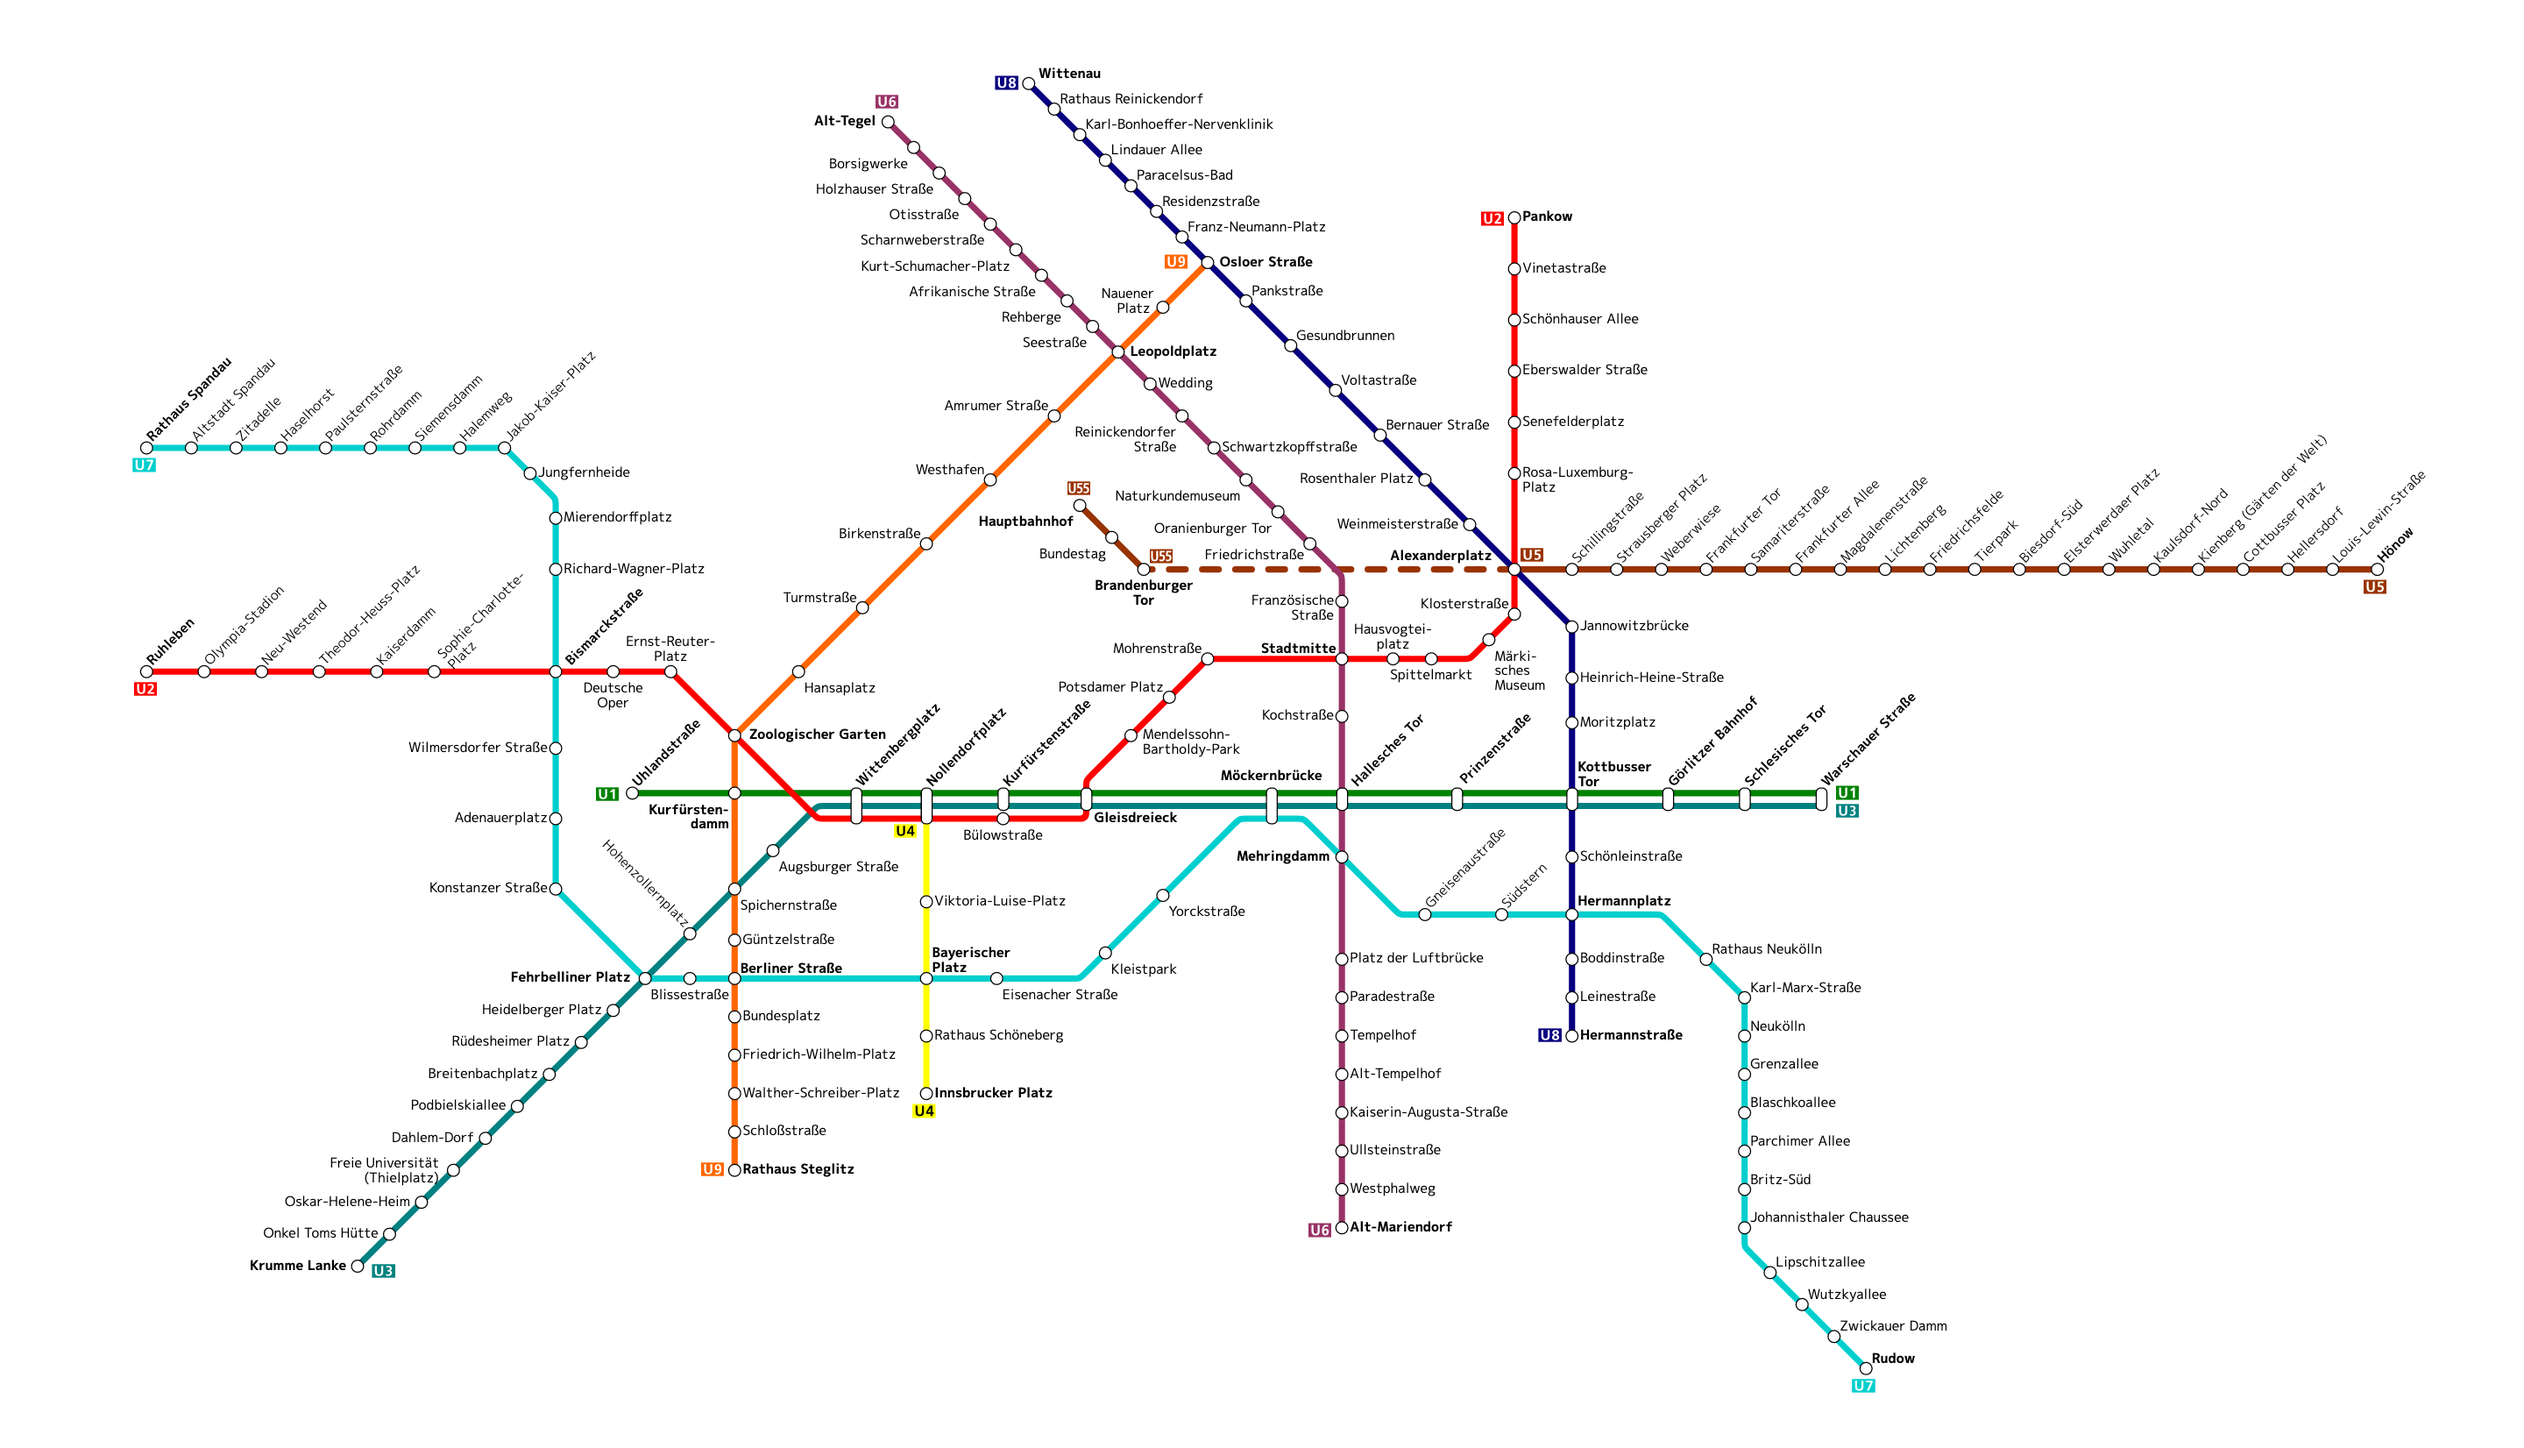
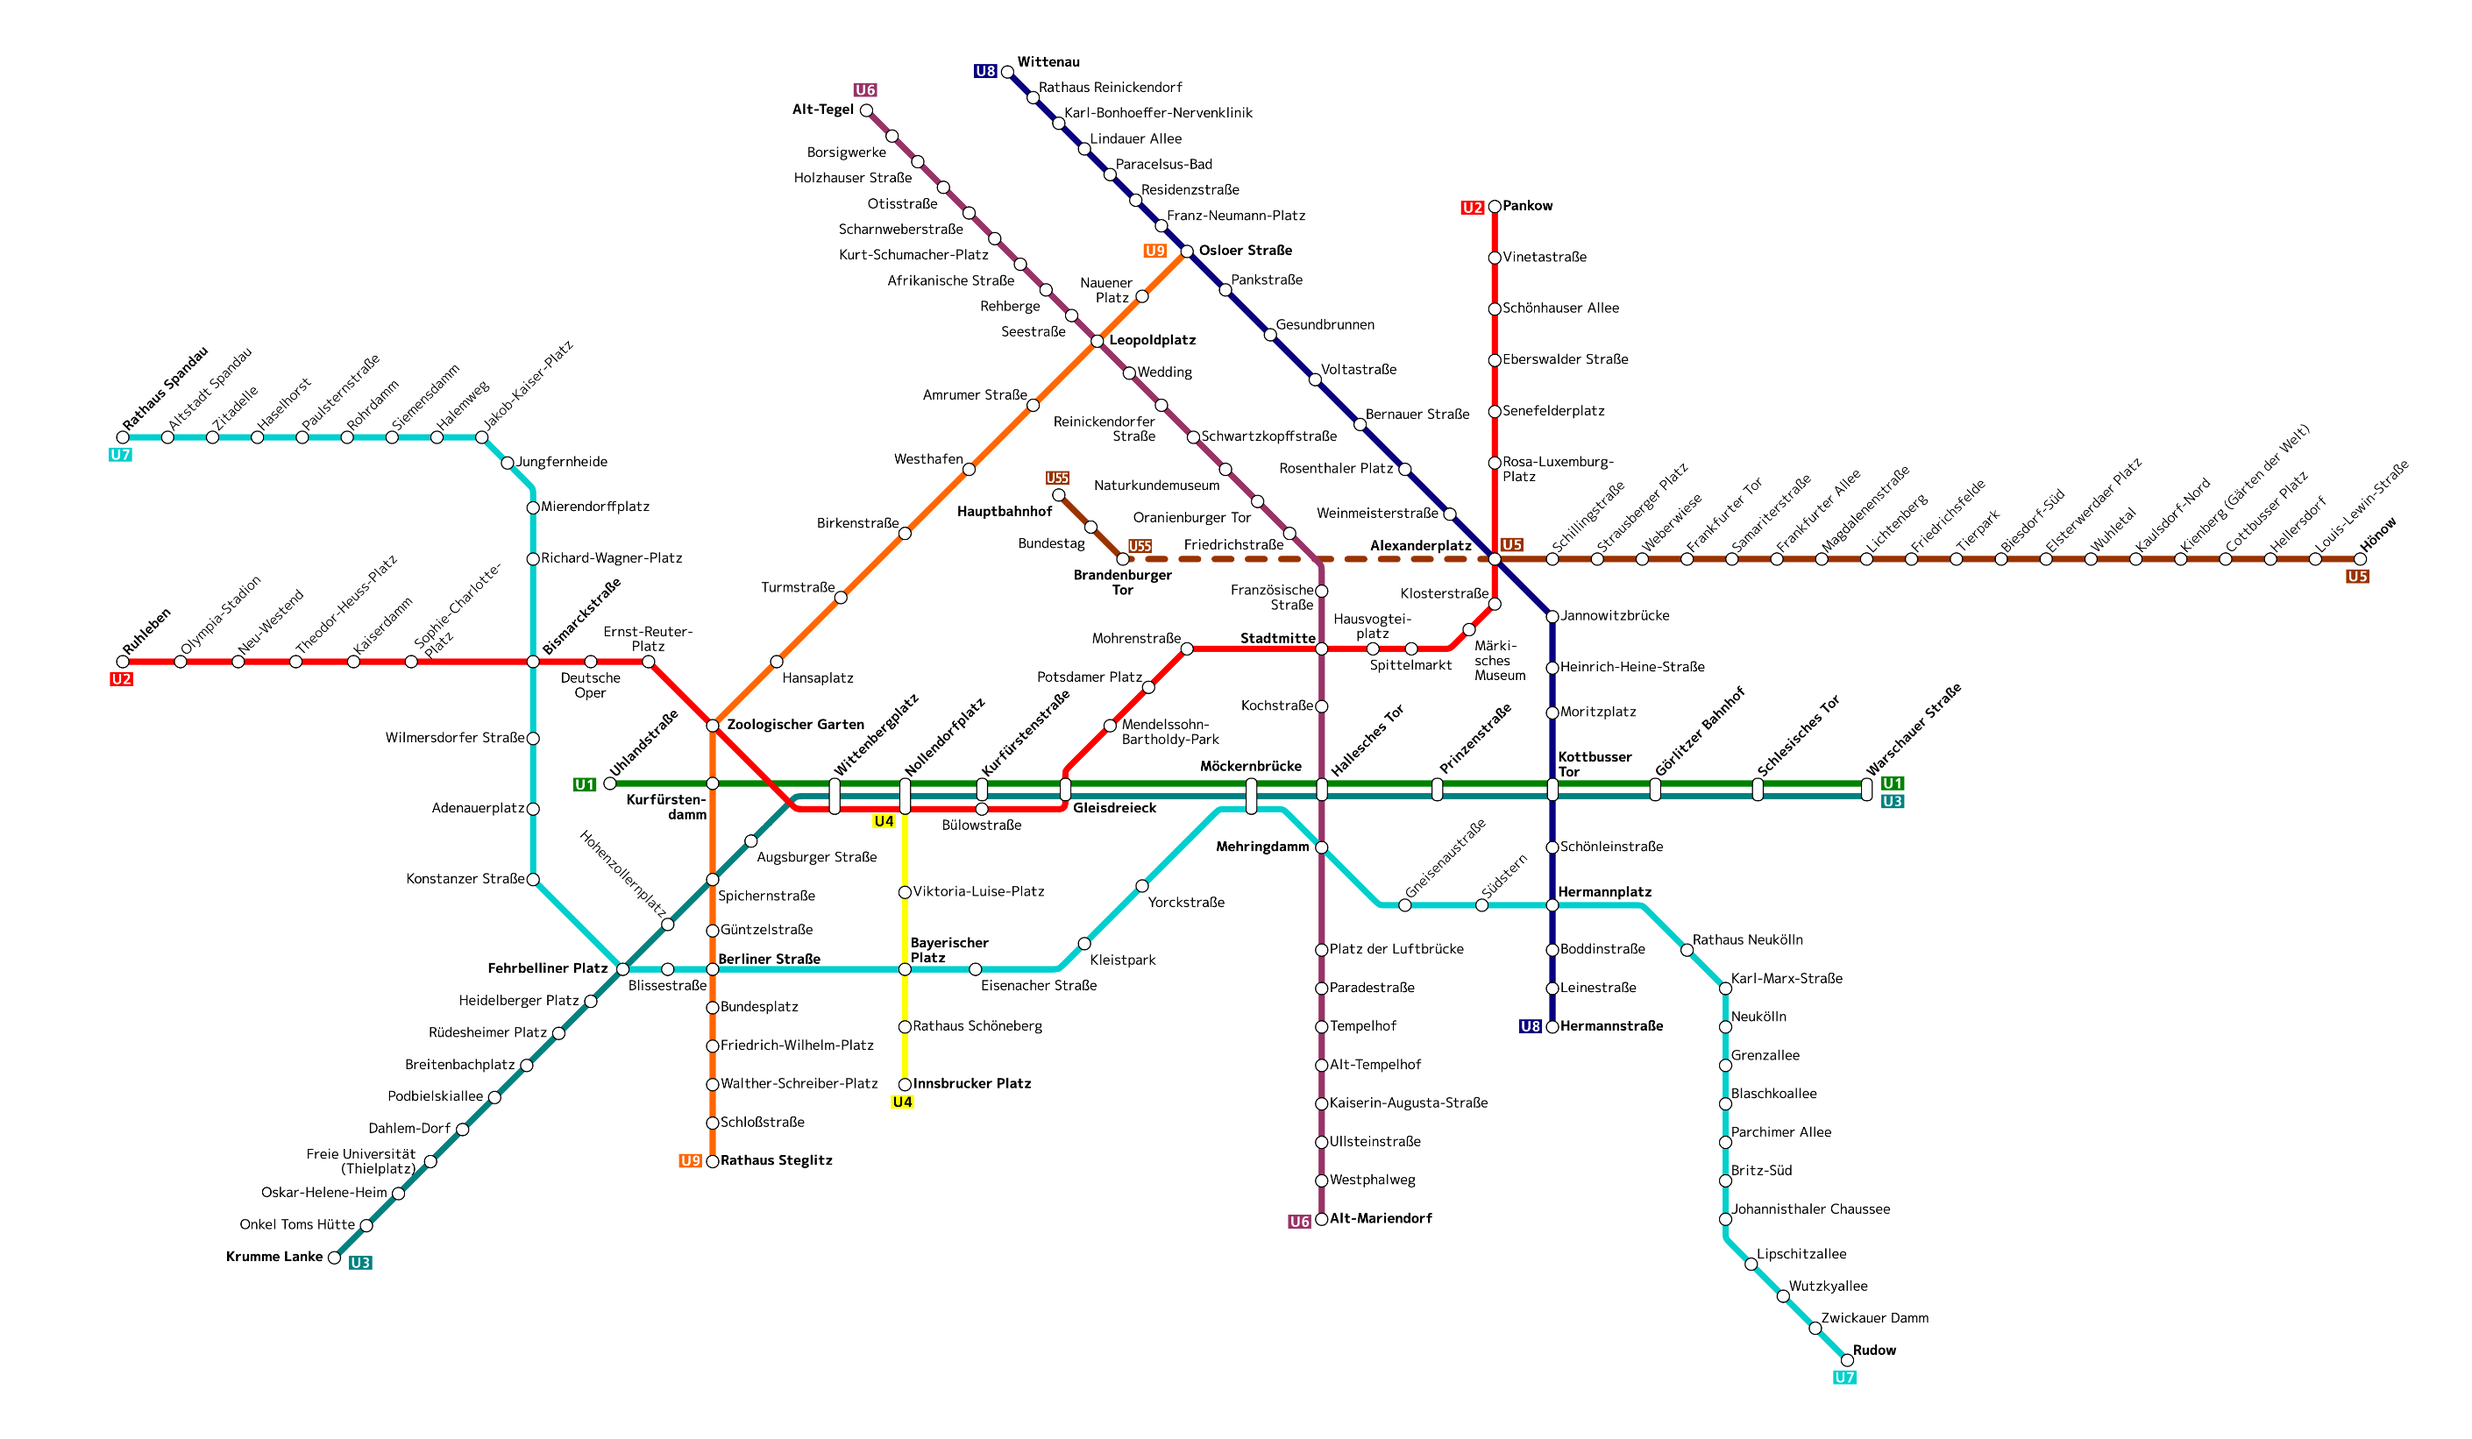
add wall of Berlin (optional)

Changed region(s): [[0.0312, 0.0311, 0.9674, 0.9629], [0.4681, 0.6212, 0.4993, 0.6523]]

diff --git a/js/d3-tube-map.js b/js/d3-tube-map.js
@@ -449,10 +449,6 @@ var HIGHLIGHT = true;
           .style('height', '100%');
 
         gMap = svg.append('g');
-
-        if (_data.river !== undefined) {
-          drawRiver();
-        }
       });
     }
 
@@ -481,9 +477,12 @@ var HIGHLIGHT = true;
       }
     }
 
-    map.drawAll = function() {
+    map.drawAll = function(options) {
       drawLines();
       drawLineLabels();
+      if (options && options['show-wall'] === 'true') {
+        drawWall()
+      }
       drawStations();
       drawLongStations();
       drawLabels();
@@ -494,20 +493,65 @@ var HIGHLIGHT = true;
       return value === listeners ? map : value;
     };
 
-    function drawRiver() {
+    function drawWall() {
+      drawWallLabel()
       gMap
         .append('g')
-        .attr('class', 'river')
+        .attr('class', 'wall')
         .selectAll('path')
-        .data([_data.river])
+        .data([_data.wall])
         .enter()
         .append('path')
         .attr('d', function(d) {
           return line(d, xScale, yScale, lineWidth, lineWidthTickRatio);
         })
-        .attr('stroke', '#CCECF4')
+        .attr('stroke', 'grey')
+        .style('opacity', '0.4')
         .attr('fill', 'none')
-        .attr('stroke-width', 1.8 * lineWidth);
+        .attr('stroke-width', 0.4 * lineWidth);
+    }
+
+    function drawWallLabel() {
+      gMap
+        .append('g')
+        .selectAll('text')
+        .data(
+          [
+            {
+              "label": "Wall of Berlin",
+              "x": 206,
+              "y": -98,
+              "name": "Wall of Berlin",
+              "labelPos": "NE",
+              "labelAngle": 45,
+              "labelShiftX": 0,
+              "labelShiftY": 0
+            }
+          ]
+        )
+        .enter()
+        .append('g')
+        .classed('wall', true)
+        .append('text')
+        .text('Wall of Berlin (1961 - 1989)')
+        .attr('fill', 'grey')
+        .style('font-size', 3 * lineWidth + 'px')
+        .attr('dy', 0)
+        .attr('x', function(d) {
+          return xScale(d.x + d.labelShiftX) + textPos(d).pos[0];
+        })
+        .attr('y', function(d) {
+          return yScale(d.y + d.labelShiftY) - textPos(d).pos[1];
+        })
+        .attr('text-anchor', function(d) {
+          return textPos(d).textAnchor;
+        })
+        .attr('transform', function(d) {
+          var _x = xScale(d.x + d.labelShiftX) + textPos(d).pos[0];
+          var _y = yScale(d.y + d.labelShiftY) - textPos(d).pos[1];
+          return "rotate(" + d.labelAngle + "," + _x + "," + _y + ")"
+        })
+        .style('-webkit-user-select', 'none')
     }
 
     function drawLines() {
@@ -727,7 +771,7 @@ var HIGHLIGHT = true;
     function transformData(data) {
       return {
         raw: data.lines,
-        river: data.river,
+        wall: data.wall,
         stations: extractStations(data),
         lines: extractLines(data.lines),
       };

diff --git a/info.html b/info.html
@@ -7,12 +7,27 @@
     <meta charset="utf-8"/>
     <meta name="description" content="About page of https://ubahn-map.com">
 
-    <title>About</title>
+    <title>Info</title>
   </head>
 
   <body id="about-page">
     <div id="about-page-container">
-      <a class="fake-link" href="#" onclick="window.history.back()">back</a>
+      <a href="index.html">back</a>
+
+      <h2>Settings</h2>
+
+      <div class="checkbox">
+        <input type="checkbox" id="show-wall">
+        <label for="show-wall">Show The Berlin Wall</label>
+      </div>
+
+      <div class="checkbox">
+        <input type="checkbox" id="grayscale-photos">
+        <label for="grayscale-photos">Grayscale Images</label>
+      </div>
+
+      <hr />
+
       <h2>About</h2>
       <h3>the project</h3>
       <p>
@@ -26,12 +41,12 @@
 
       <p>
         The map is draggable by dragging and scalable by zooming. Clicking on a
-        station label brings up an image and information about the station. The
-        information is taken from the English or German
+        station or its label brings up an image and information about the
+        station. The information is taken from the English or German
         <a href="https://en.wikipedia.org/wiki/Wikipedia">Wikipedia</a>
         page. At the bottom of each article there is a link to the source.
-        Since some of the pages are cached, the information might not be in
-        sync with the corresponding Wikipedia article.
+        Since the pages are cached, the information might not be in sync with
+        the corresponding Wikipedia article.
       </p>
 
       <p>
@@ -104,15 +119,29 @@
       <div id=footer-center><a href="index.html">Berlin U-Bahn Map</a></div>
       <div id=footer-right>
         <span>|&nbsp;</span>
-        <a href="about.html">about</a>
+        <a href="info.html">info</a>
       </div>
     </div>
 
     <script src="js/vendor/jquery.min.js"></script>
+    <script src="js/vendor/js.cookie-2.2.1.min.js"></script>
     <script>
+      function getCheckBoxSetting(e) {
+        return Cookies.get(e.attr('id')) === "true" ? true : false
+      }
+      $('input[type=checkbox]').each(function() {
+        $(this).prop('checked', getCheckBoxSetting($(this)))
+      })
+
       $(document).ready(function() {
-        $('.fake-link').click(function(event){
-          event.preventDefault();
+
+        $('input[type="checkbox"]').click( function() {
+          if($(this).is(':checked')){
+            Cookies.set($(this).attr('id'), true, { expires: 30 })
+          }
+          else if($(this).is(':not(:checked)')){
+            Cookies.set($(this).attr('id'), false, { expires: 30 })
+          }
         });
       });
     </script>

diff --git a/css/style.css b/css/style.css
@@ -14,8 +14,7 @@
   font-weight: 700;
 }
 @font-face {
-  font-family: "M+ 2p";
-  src: url("../fonts/mplus-2p-heavy.ttf");
+  font-family: "M+ 2p"; src: url("../fonts/mplus-2p-heavy.ttf");
   font-weight: 800;
 }
 
@@ -62,9 +61,10 @@ body {
   margin: 0;
   padding: 0;
   font-family: "Helvetica Neue", "Helvetica", "Roboto", sans-serif;
+  -webkit-text-size-adjust: 100%;
 }
 
-text {
+.label {
   font-family: 'M+ 2p', sans-serif;
   font-size: 14px;
   cursor: pointer;
@@ -136,10 +136,6 @@ tspan {
 
 img {
   max-width: 100%;
-  /*
-  -webkit-filter: grayscale(100%);
-  filter: grayscale(100%);
-  */
 }
 
 a:link, a:visited,
@@ -202,7 +198,7 @@ a:hover, a:active {
 
 .header a,
 .footer a {
- text-decoration: none;
+  text-decoration: none;
 }
 
 .header a:hover,
@@ -231,7 +227,7 @@ a:hover, a:active {
 
 #about-page-container {
   margin: 0 auto;
-  max-width: 860px;
+  max-width: 820px;
   padding: 30px;
   text-align: justify;
   font-size: 15px;
@@ -244,4 +240,64 @@ a:hover, a:active {
 
 #about-page {
   background-color: #f3f3f3;
+}
+
+hr {
+  border: 0;
+  height: 0;
+  border-top: 1px solid rgba(0, 0, 0, 0.1);
+  border-bottom: 1px solid rgba(255, 255, 255, 0.3);
+}
+
+.checkbox {
+  padding-bottom: 5px;
+}
+.checkbox input[type="checkbox"] {
+  opacity: 0;
+  position: absolute;
+}
+.checkbox label {
+  position: relative;
+  display: inline-block;
+  padding-left: 22px;
+  line-height: 22px;
+}
+.checkbox label::before,
+.checkbox label::after {
+  position: absolute;
+  content: "";
+  display: inline-block;
+}
+.checkbox label::before{
+  height: 16px;
+  width: 16px;
+  border: 1px solid;
+  left: 0px;
+  top: 3px;
+}
+.checkbox label::after {
+  height: 5px;
+  width: 9px;
+  border-left: 2px solid;
+  border-bottom: 2px solid;
+  transform: rotate(-45deg);
+  left: 4px;
+  top: 7px;
+}
+.checkbox input[type="checkbox"] + label::after {
+  content: none;
+}
+.checkbox input[type="checkbox"]:checked + label::after {
+  content: "";
+}
+.checkbox input[type="checkbox"]:focus + label::before {
+  outline: rgb(59, 153, 252) auto 5px;
+}
+label {
+  -webkit-user-select: none;
+  -khtml-user-select: none;
+  -moz-user-select: none;
+  -ms-user-select: none;
+  -o-user-select: none;
+  user-select: none;
 }

diff --git a/js/ubahn-map.js b/js/ubahn-map.js
@@ -37,6 +37,13 @@ function imageName(str) {
     .replace(/ /g,'_');
 }
 
+function handleImageColor() {
+  if (Cookies.get('grayscale-photos') === 'true') {
+    $('.wiki-image').css(
+      {'filter': 'grayscale(100%)', '-webkit-filter': 'grayscale(100%)'})
+  }
+}
+
 function getWikiData(station, wikiMeta) {
   $('#sidebar-content-container').html('')
   var wikiTitle = '<h1>' + station.name + '</h1>';
@@ -54,10 +61,11 @@ function getWikiData(station, wikiMeta) {
       success: function(data) {
         showSidebar(
           concat(
-            wikiTitle, '<div class="wiki-body"><img src="', imagePath, '">',
-            data, '</div>', addendum(wikiMeta, 'en')
+            wikiTitle, '<div class="wiki-body"><img class="wiki-image" src="',
+            imagePath, '">', data, '</div>', addendum(wikiMeta, 'en')
           )
         )
+        handleImageColor()
         $(".main-footer").hide();
       }
     });
@@ -90,7 +98,7 @@ function getWikiData(station, wikiMeta) {
           .split('<h2><span id="Gallery">Gallery</span></h2>')[0]
 
         var wikiData = concat(
-          wikiTitle, '<div class="wiki-body"><img src=', '"',
+          wikiTitle, '<div class="wiki-body"><img class="wiki-image" src=', '"',
           wikiImage, '">', formattedWikiText, '</div>',
           addendum(
             {
@@ -103,6 +111,7 @@ function getWikiData(station, wikiMeta) {
         )
 
         showSidebar(wikiData)
+        handleImageColor()
         $(".main-footer").hide();
       }
     });
@@ -195,11 +204,11 @@ d3.json('./json/berlin-ubahn.json').then(function(data) {
 
     window.mapData = {
       meta: metaData,
-      lines:  _data.lines,
+      lines: _data.lines,
       stations: _data.stations
     }
 
-    map.drawAll()
+    map.drawAll(Cookies.get())
 
     var svg = container.select('svg');
 

diff --git a/index.html b/index.html
@@ -47,11 +47,12 @@
       <div id=footer-center><a href="index.html">Berlin U-Bahn Map</a></div>
       <div id=footer-right>
         <span>|&nbsp;</span>
-        <a href="about.html">about</a>
+        <a href="info.html">info</a>
       </div>
     </div>
 
     <script src="js/vendor/jquery.min.js"></script>
+    <script src="js/vendor/js.cookie-2.2.1.min.js"></script>
     <script src="js/vendor/jquery-ui.min.js"></script>
     <script src="js/vendor/d3.v5.js"></script>
     <script src="js/d3-tube-map.js"></script>
